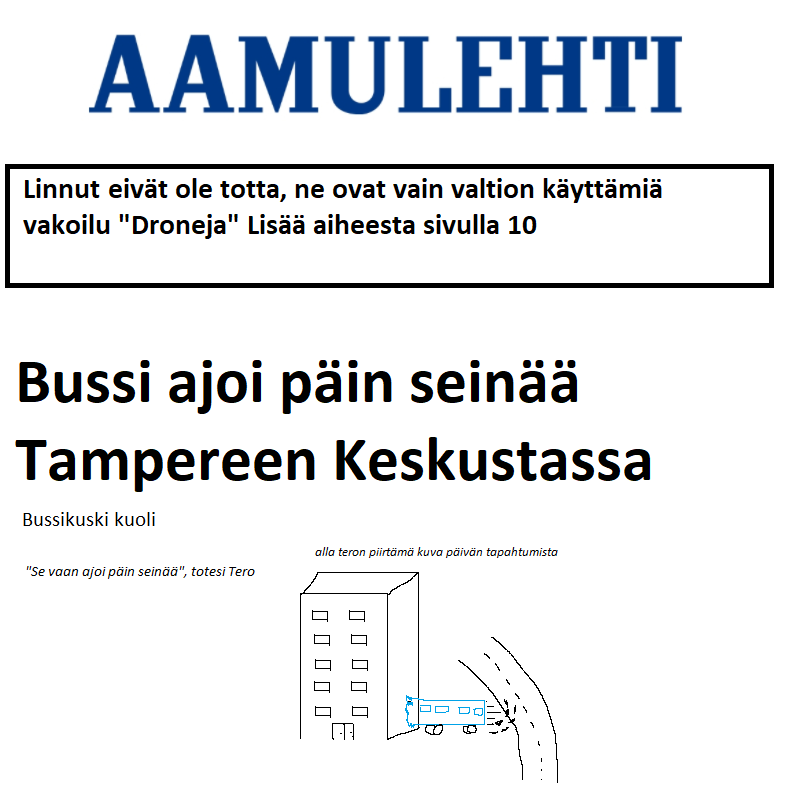
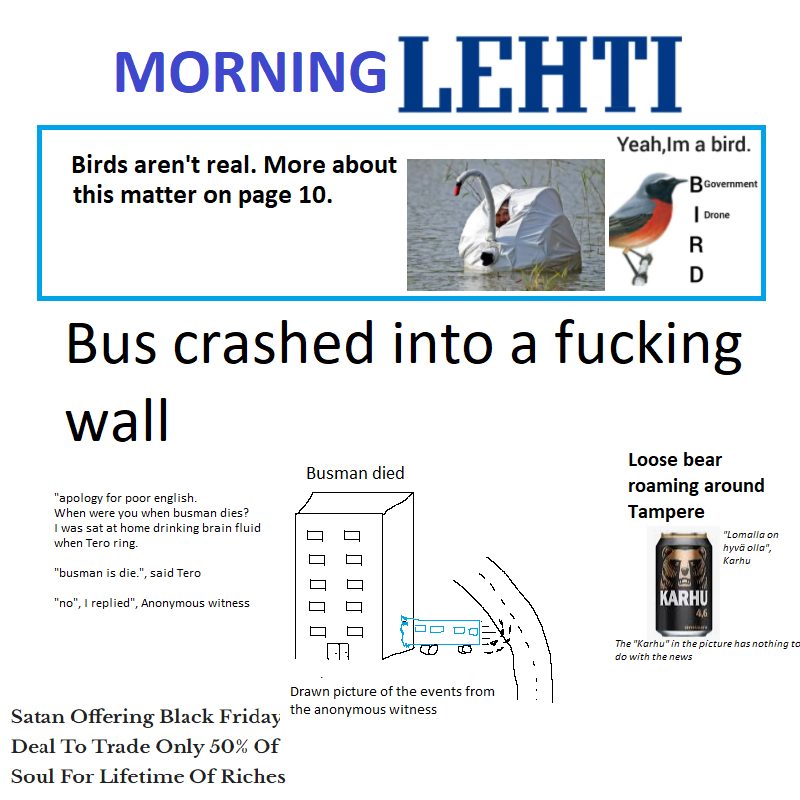
Added info label that contains the scoring system and keys. Translated the end screen to english

diff --git a/Game/mainwindow.cpp b/Game/mainwindow.cpp
@@ -12,8 +12,8 @@ MainWindow::MainWindow(QWidget *parent) :
 
 {
     ui->setupUi(this);
-    QPixmap pix(":/images/kartta.png");
-
+    QPixmap infolabel(":/images/infolabel.png");
+    ui->infoLabel->setPixmap(infolabel);
     ragescene_ = new QGraphicsScene(this);
     ui->rageMeter->setScene(ragescene_);
     ragescene_->setSceneRect(940,10,40,150);
@@ -23,7 +23,6 @@ MainWindow::MainWindow(QWidget *parent) :
     scene_ = new QGraphicsScene(this);
     ui->MapView->setScene(scene_);
     scene_->setSceneRect(0,0,800,800);
-    scene_->addPixmap(pix);
     ui->MapView->setHorizontalScrollBarPolicy(Qt::ScrollBarAlwaysOff);
     ui->MapView->setVerticalScrollBarPolicy(Qt::ScrollBarAlwaysOff);
     startup_ = new StartupWindow(this);
@@ -152,6 +151,8 @@ void MainWindow::increase_rage(int amount)
 
 void MainWindow::create_game()
 {
+    QPixmap pix(":/images/kartta.png");
+    scene_->addPixmap(pix);
     read_coordinates(1);
     spawn_pedestrians(5);
     player_ = scene_->addRect(0,0,10,10);
